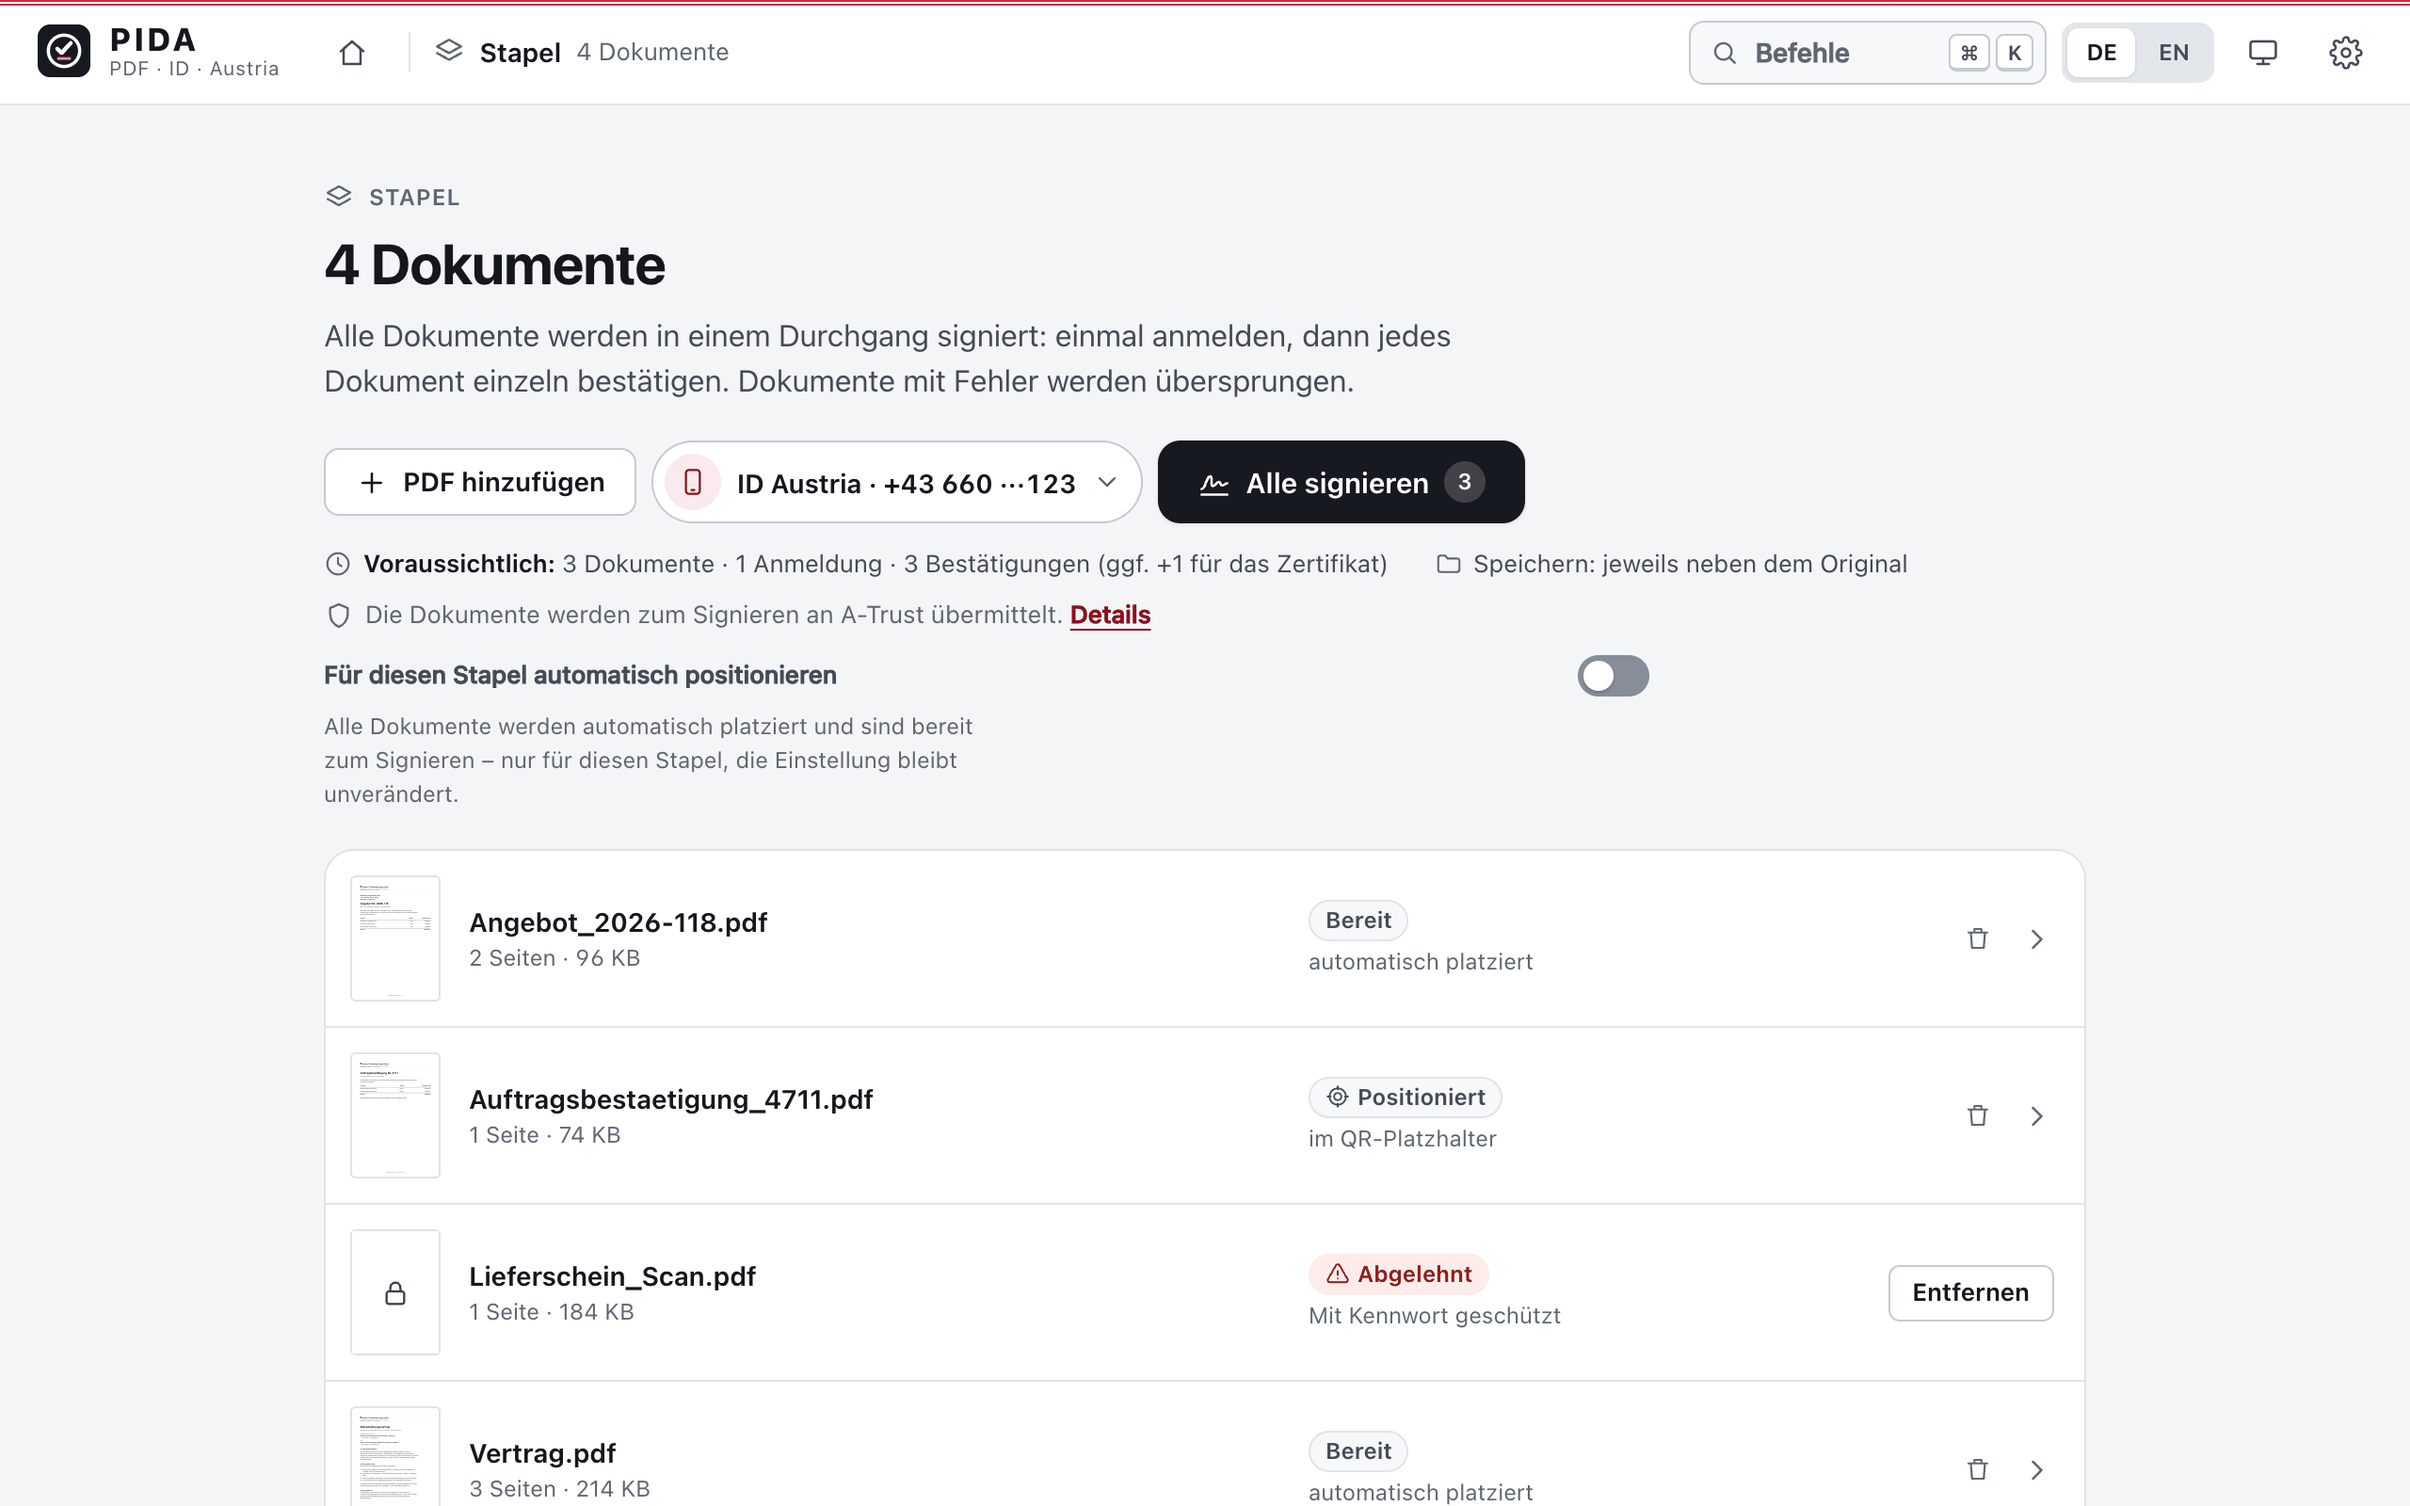
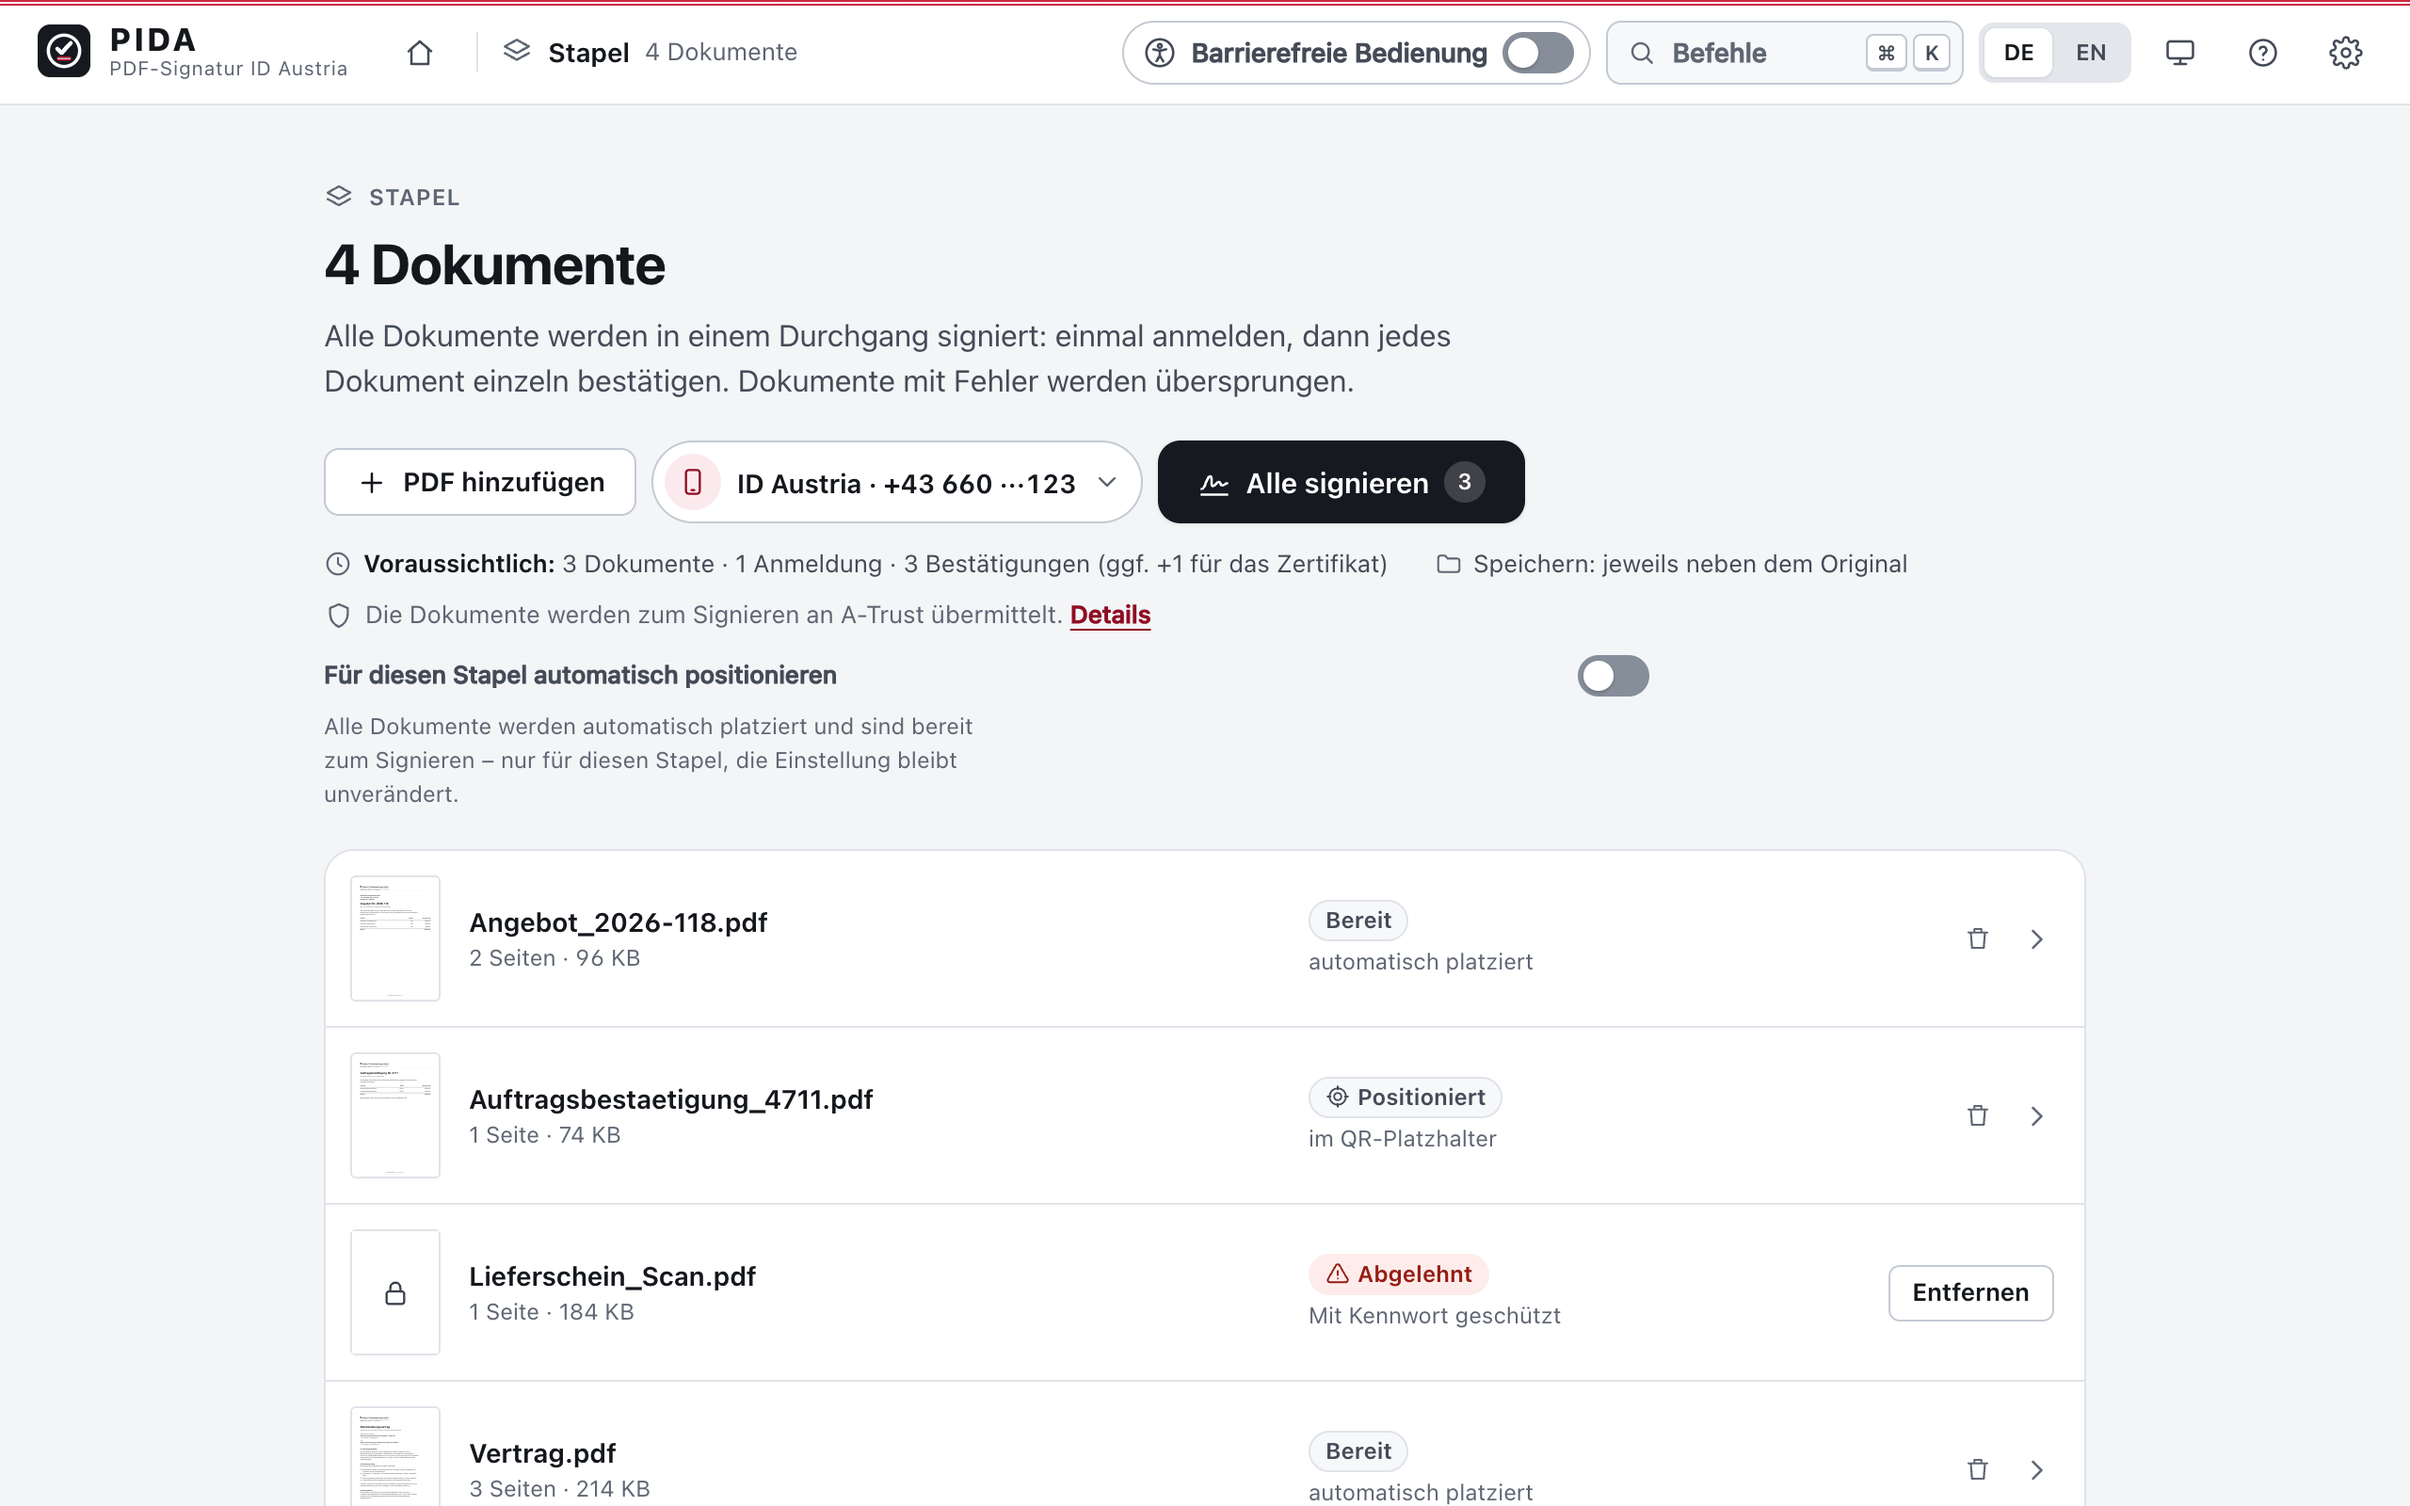
README: Screenshots auf 0.7.0, neu barrierefreie Platzierung und QR-Platzhalter

diff --git a/README.md b/README.md
@@ -70,12 +70,12 @@ Apache unter [Server für PIDA Web](#server-für-pida-web-linux), Details in
 <table>
   <tr>
     <td width="50%" valign="top">
-      <img src="docs/screenshots/01-start.png" alt="Startseite: Fläche „PDF hierher ziehen oder auswählen“ mit der Schaltfläche „PDF auswählen“, daneben die Liste „Zuletzt signiert“ mit drei Dokumenten">
+      <img src="docs/screenshots/01-start.png" alt="Startseite: Fläche „PDF hierher ziehen oder auswählen“ mit der Schaltfläche „PDF auswählen“, darunter die Karte „Dokument für andere vorbereiten“ mit „QR-Platzhalter erstellen“, daneben die Liste „Zuletzt signiert“ mit drei Dokumenten; in der Kopfzeile der Schalter „Barrierefreie Bedienung“">
       <br><b>Startseite</b> – PDF hineinziehen oder auswählen, mehrere Dateien werden zum Stapel. Daneben
-      „Zuletzt signiert“.
+      „Zuletzt signiert“, darunter „Dokument für andere vorbereiten“.
     </td>
     <td width="50%" valign="top">
-      <img src="docs/screenshots/03-signieren-id-austria.png" alt="Dialog „Signieren mit ID Austria“, Schritt 2 „In der App bestätigen“: Vergleichswert aus zehn Zeichen, Restzeit 4:59, Alternativen FIDO2-Schlüssel und SMS-TAN">
+      <img src="docs/screenshots/03-signieren-id-austria.png" alt="Dialog „Signieren mit ID Austria“, Schritt 2 „In der App bestätigen“: Vergleichswert aus zehn Zeichen, Restzeit 4:58, Alternativen FIDO2-Schlüssel und SMS-TAN">
       <br><b>Signieren mit ID Austria</b> – Statuskarte mit Vergleichswert und Restzeit; bestätigt wird in der
       App „ID Austria“.
     </td>
@@ -103,17 +103,29 @@ Apache unter [Server für PIDA Web](#server-für-pida-web-linux), Details in
       <br><b>Dunkles Design</b> – der Signaturblock rastet in ein leeres Signaturfeld des Formulars ein.
     </td>
   </tr>
+  <tr>
+    <td width="50%" valign="top">
+      <img src="docs/screenshots/10-barrierefrei-platzierung.png" alt="Arbeitsbereich mit eingeschalteter barrierefreier Bedienung: rechts oben „Platzierung der Signatur“ mit den Methoden Automatisch, Platzhalter im Dokument, Position in Millimetern (gewählt, mit Feldern für Seite, Abstand von links und von unten) sowie Freie Fläche">
+      <br><b>Barrierefreie Bedienung</b> – die Signatur ohne Vorschau platzieren: automatisch, in einen
+      Platzhalter, per Millimeter (wie PDF-AS) oder auf eine freie Fläche.
+    </td>
+    <td width="50%" valign="top">
+      <img src="docs/screenshots/11-qr-platzhalter.png" alt="Dialog „QR-Platzhalter erstellen“: Vorschau des Platzhalters mit QR-Code und „Platzhalter für die elektronische Signatur Nr. 0001“, darunter Nummer, Signaturbild und die Schaltflächen „Als SVG speichern“ und „Als PNG speichern“">
+      <br><b>QR-Platzhalter erstellen</b> – für Dokumente, die andere unterschreiben; kompatibel mit
+      PDF-Over und PDF-AS.
+    </td>
+  </tr>
 </table>
 
 <p align="center">
-  <img src="docs/screenshots/08-mobil-start.png" width="280" alt="Android, Startseite: „Was möchten Sie signieren?“ mit der Schaltfläche „Dokument auswählen“ und der Liste „Zuletzt signiert“">
+  <img src="docs/screenshots/08-mobil-start.png" width="280" alt="Android, Startseite: „Was möchten Sie signieren?“ mit der Schaltfläche „Dokument auswählen“, darunter die Karte „Dokument für andere vorbereiten“">
   &nbsp;&nbsp;
   <img src="docs/screenshots/09-mobil-arbeitsbereich.png" width="280" alt="Android, Arbeitsbereich: Vertragsseite mit platziertem Signaturblock, unten das einklappbare Bedienfeld mit „ID Austria“ und „Signieren“">
   <br><b>Android</b> – Startseite und Arbeitsbereich mit ausklappbarem Bedienfeld; auf dem Smartphone wird
   mit ID Austria signiert. PDFs kommen auch über „Teilen“ aus anderen Apps.
 </p>
 
-<sub>Aufnahmen der Oberfläche von 0.2.0 mit Beispieldaten (fiktive Person „Max Mustermann“, frei erfundene
+<sub>Aufnahmen der Oberfläche von 0.7.0 mit Beispieldaten (fiktive Person „Max Mustermann“, frei erfundene
 Dokumente).</sub>
 
 ## Download
